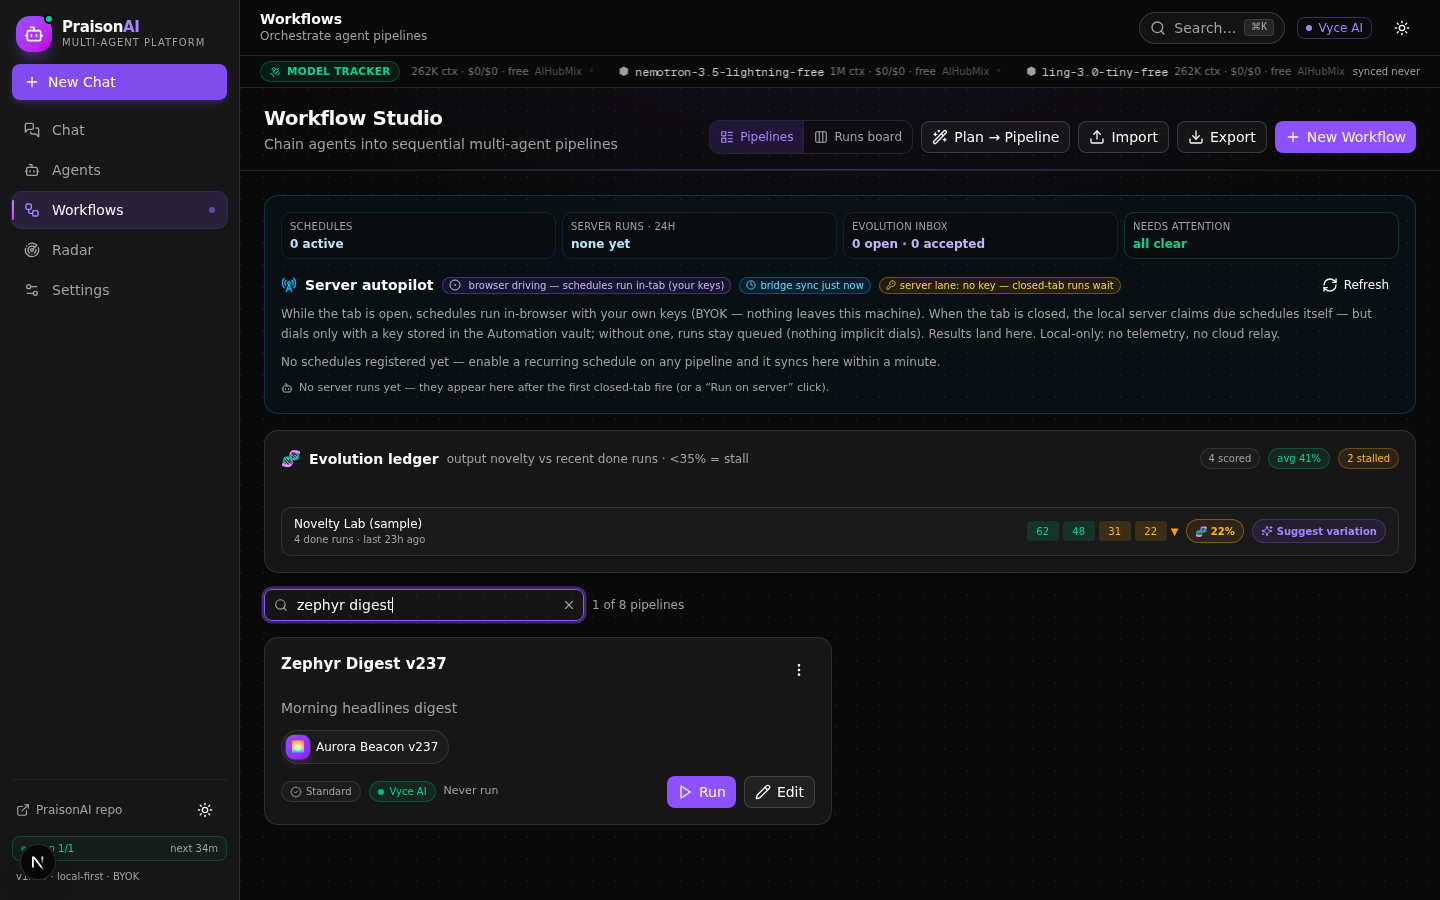
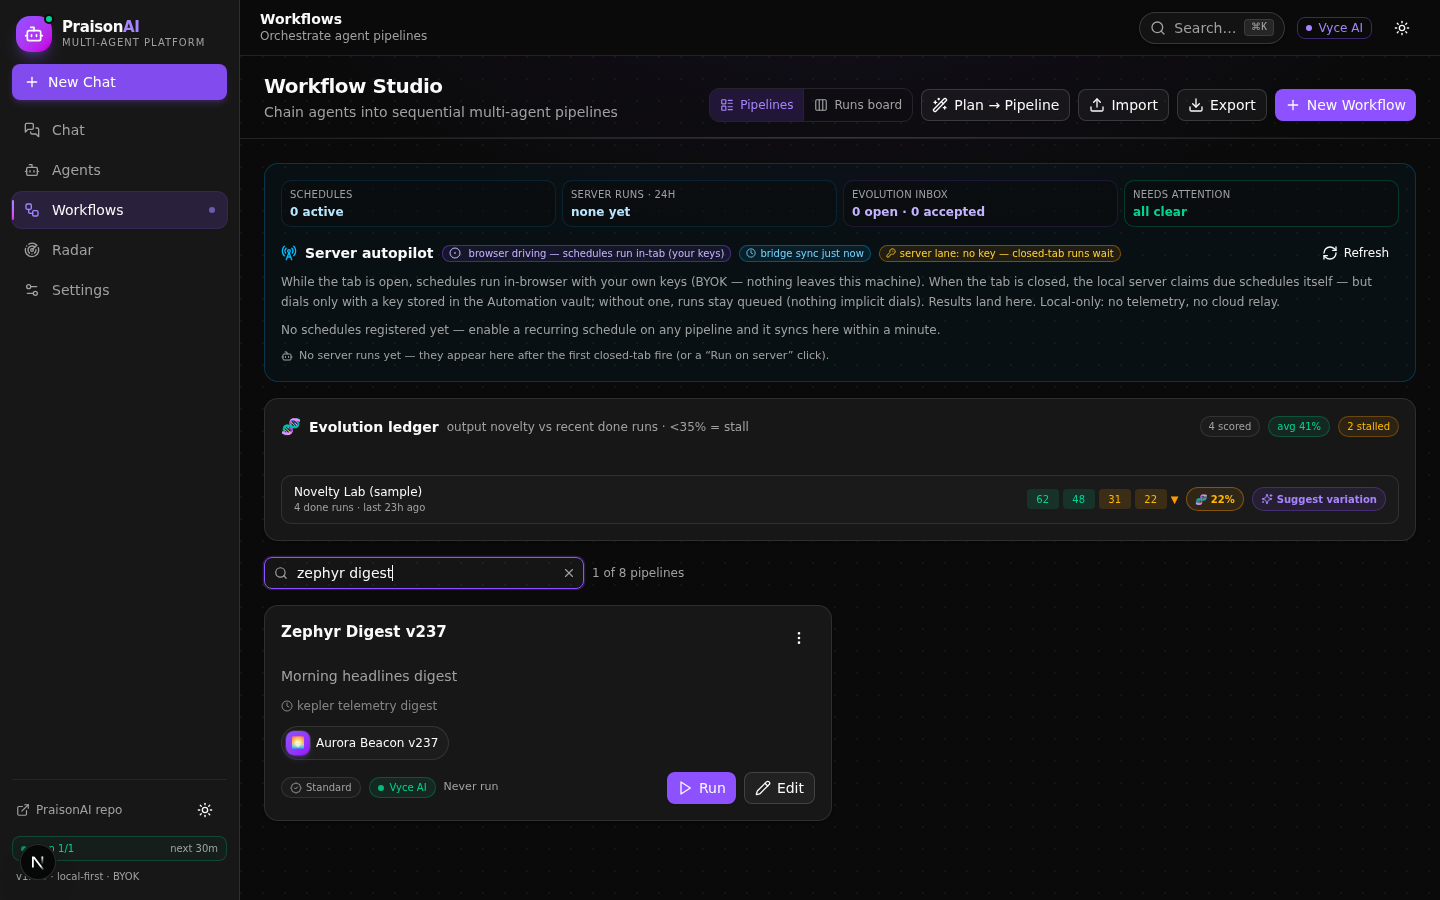
snapshot: 2026-10-04T03:30:24Z auto-backup

diff --git a/src/components/praison/settings/whats-fixed.tsx b/src/components/praison/settings/whats-fixed.tsx
@@ -85,6 +85,14 @@ const FIXES: FixNote[] = [
     lookFor:
       'the amber "No credentials in this export" note inside the import confirm dialog',
   },
+  {
+    round: "r237-r238",
+    title: "Workflow Studio is searchable",
+    detail:
+      "The pipeline list gains a real search box — one needle matches names, descriptions, step labels, step instructions, agent names and even the schedule task text that says what a recurring pipeline is for. Live result count, Esc or the × button clears, and a no-match state offers a one-click reset. Cards now also show that schedule task line, so a hit by intent is visible on the card itself.",
+    lookFor:
+      'the "Search pipelines, agents, steps, schedules…" box above the card grid — press / to jump into it',
+  },
 ];
 
 export function WhatsFixedSection() {
@@ -93,7 +101,7 @@ export function WhatsFixedSection() {
       <CardHeader className="pb-3">
         <CardTitle>What&apos;s fixed recently</CardTitle>
         <CardDescription>
-          r186-r196 shipped pipeline &amp; relay repairs while boards can look unchanged (background
+          r186-r238 shipped pipeline &amp; relay repairs while boards can look unchanged (background
           tabs stop hot-reloading). If you can read this section, this tab already runs current code
           — otherwise an amber refresh pill appears within a minute.
         </CardDescription>

diff --git a/src/components/praison/workflows/workflows-view.tsx b/src/components/praison/workflows/workflows-view.tsx
@@ -1562,6 +1562,21 @@ export function WorkflowsView() {
                     </p>
                   ) : null}
 
+                  {/* r239: show the schedule's task text on the card. Search
+                      can now find a pipeline by its recurring intent (r238),
+                      but the card never displayed that intent — the hit was
+                      invisible. Shown only when it differs from the
+                      description (schedule.task falls back to it anyway). */}
+                  {wf.schedule?.task && wf.schedule.task !== wf.description ? (
+                    <p
+                      className="line-clamp-1 text-xs text-muted-foreground/80"
+                      title={`Schedule task — what each scheduled run asks for: ${wf.schedule.task}`}
+                    >
+                      <Clock className="mr-1 inline h-3 w-3 align-[-2px]" aria-hidden />
+                      {wf.schedule.task}
+                    </p>
+                  ) : null}
+
                   {liveRun ? (
                     <div
                       role="status"
